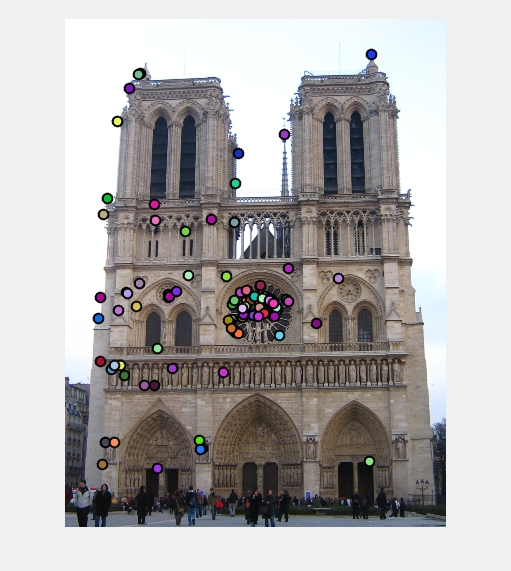
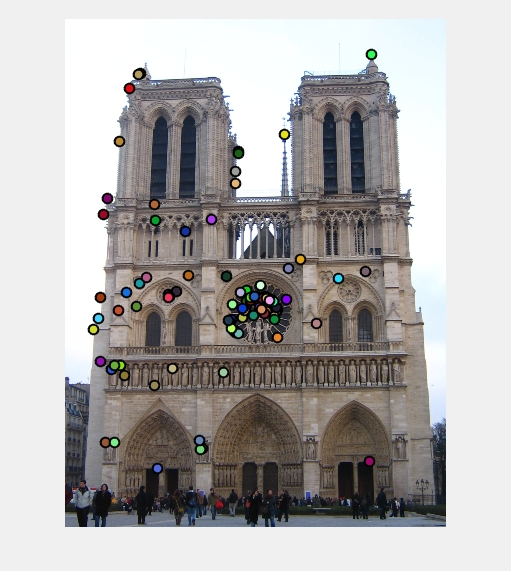
get features implemented

diff --git a/Project2/proj2/code/get_features.m b/Project2/proj2/code/get_features.m
@@ -55,58 +55,72 @@ function [features] = get_features(image, x, y, feature_width)
 % Another simple trick which can help is to raise each element of the final
 % feature vector to some power that is less than one.
 
-bins=8;
-H1=[];
-for z=1:length(x)
-    r=y(z);
-    c=x(z);
-    har=image(r-8:r+7,c-8:c+7);
-    bsize=4;
-    x1=size(har,1)/bsize; y1=size(har,2)/bsize; %f is the original image
-    q=bsize*ones(1,x1); n=bsize*ones(1,y1);
-    har=mat2cell(har,q,n);
-    H=[];
+final_hist=[];
+for ind=1:length(x)
+    % slice image 16x16
+    row=y(ind);
+    col=x(ind);
+    sliced_image=image(row-8:row+7,col-8:col+7);
+    
+    % slice by bin size
+    bin_size=4;
+    x_dash=size(sliced_image,1)/bin_size; 
+    y_dash=size(sliced_image,2)/bin_size;
+    dim_x=bin_size*ones(1,x_dash); 
+    dim_y=bin_size*ones(1,y_dash);
+    
+    % Array to Cell Array conversion
+    sliced_image=mat2cell(sliced_image,dim_x,dim_y);        
+    temp_hist=[];
+    
     for i=1:4
         for j=1:4
-            har1=cell2mat(har(i,j));
-            [mag,ang]=imgradient(har1);
-            mag1=zeros(1,8);
-            for k=1:4
+            arr=cell2mat(sliced_image(i,j));    % Cell Array to Array conversion
+            [magnitude,theta]=imgradient(arr);
+            mag_final=zeros(1,8);
+            for k=1:4                           % 4x4 grid celss
                 for l=1:4
-                    if (ang(k,l)>0 && ang(k,l)<45)
-                        mag1(1)=mag1(1)+mag(k,l);
-                    elseif (ang(k,l)>45 && ang(k,l)<90)
-                        mag1(2)=mag1(2)+mag(k,l);
-                    elseif (ang(k,l)>90 && ang(k,l)<135)
-                        mag1(3)=mag1(3)+mag(k,l);
-                    elseif (ang(k,l)>135 && ang(k,l)<180)
-                        mag1(4)=mag1(4)+mag(k,l);
-                    elseif (ang(k,l)>-45 && ang(k,l)<0)
-                        mag1(5)=mag1(5)+mag(k,l);
-                    elseif (ang(k,l)>-90 && ang(k,l)<-45)
-                        mag1(6)=mag1(6)+mag(k,l);
-                    elseif (ang(k,l)>-135 && ang(k,l)<-90)
-                        mag1(7)=mag1(7)+mag(k,l);
-                    elseif (ang(k,l)>-180 && ang(k,l)<-135)
-                        mag1(8)=mag1(8)+mag(k,l);
+                    if (theta(k,l)>=0 && theta(k,l)<45)
+                        mag_final(1)=mag_final(1)+magnitude(k,l);
+                    elseif (theta(k,l)>=45 && theta(k,l)<90)
+                        mag_final(2)=mag_final(2)+magnitude(k,l);
+                    elseif (theta(k,l)>=90 && theta(k,l)<135)
+                        mag_final(3)=mag_final(3)+magnitude(k,l);
+                    elseif (theta(k,l)>=135 && theta(k,l)<180)
+                        mag_final(4)=mag_final(4)+magnitude(k,l);
+                    elseif (theta(k,l)>=-45 && theta(k,l)<0)
+                        mag_final(5)=mag_final(5)+magnitude(k,l);
+                    elseif (theta(k,l)>=-90 && theta(k,l)<-45)
+                        mag_final(6)=mag_final(6)+magnitude(k,l);
+                    elseif (theta(k,l)>=-135 && theta(k,l)<-90)
+                        mag_final(7)=mag_final(7)+magnitude(k,l);
+                    elseif (theta(k,l)>=-180 && theta(k,l)<-135)
+                        mag_final(8)=mag_final(8)+magnitude(k,l);
                     end
                  end
             end
-            H=[H mag1];                       
+            temp_hist=[temp_hist mag_final];                       
         end
     end
-    d=norm(H);
-    H=H./d;
-    for w=1:128
-        if(H(w)>0.2)
-            H(w)=0.2;
+    
+    % normalized to unit length
+    normalized=norm(temp_hist);
+    temp_hist=temp_hist./normalized;
+    
+    for dim=1:128                              % 4*4*8
+        if(temp_hist(dim)>0.25)
+            temp_hist(dim)=0.25;
         end
     end
-    d=norm(H);
-    H=H./d;
-    H1=[H1;H];   
+    
+    % normalized again
+    normalized=norm(temp_hist);
+    temp_hist=temp_hist./normalized;
+    
+    final_hist=[final_hist;temp_hist];   
 end
-features=H1;
+
+features=final_hist;
 
 end
 
